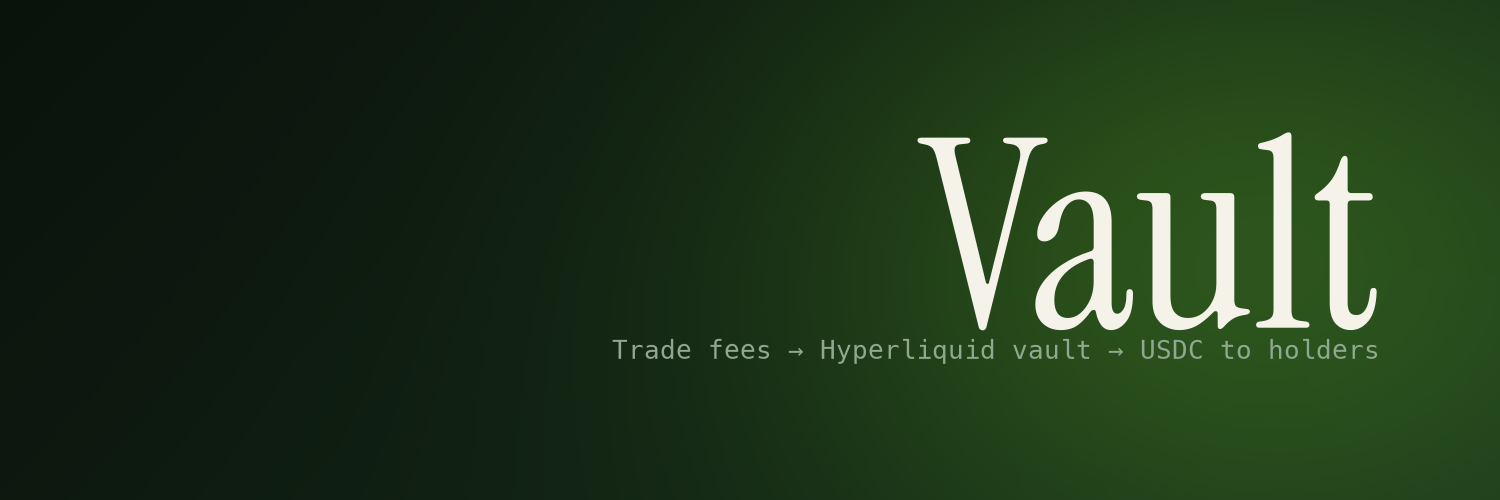
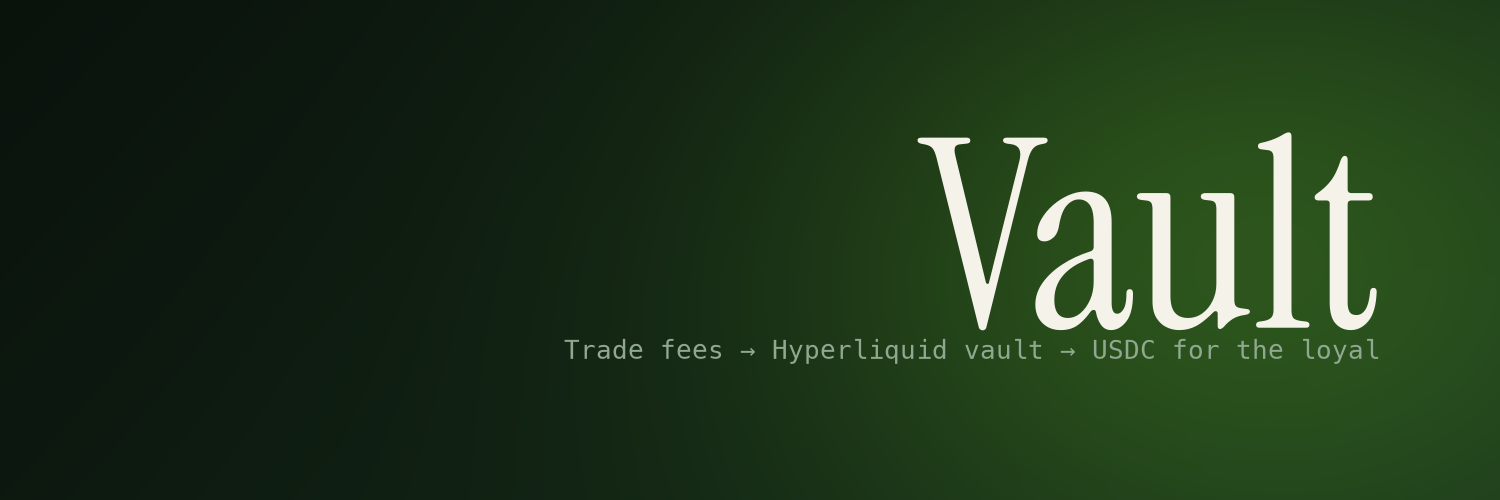
Tagline: USDC for the loyal

Changed region(s): [[0.368, 0.66, 0.92, 0.72]]

diff --git a/index.html b/index.html
@@ -399,7 +399,7 @@
 <section class="cta">
   <div class="container cta__inner">
     <h2>Fee for vault. <em>Vault for you.</em></h2>
-    <p>Trade fees → Hyperliquid vault → USDC for loyal holders.</p>
+    <p>Trade fees → Hyperliquid vault → USDC for the loyal.</p>
     <div class="hero__cta">
       <button class="btn btn--primary btn--lg">Buy $VAULT</button>
     </div>

diff --git a/brand/banner_variants.py b/brand/banner_variants.py
@@ -29,7 +29,7 @@ def save(f, name): f.savefig(os.path.join(ROOT, name), dpi=100); plt.close(f); p
 # ---- 1. classic: serif wordmark, tagline under, right-aligned ----
 f, ax = canvas((0x0A, 0x12, 0x0C), (0x16, 0x2E, 0x1B))
 ax.text(1380, 262, "Vault", fontproperties=serif, fontsize=190, color=CREAM, ha="right", va="center", zorder=3)
-ax.text(1380, 148, "Trade fees → Hyperliquid vault → USDC for loyal holders", fontsize=19, color=MUTED, family=MONO, ha="right", va="center", zorder=3)
+ax.text(1380, 148, "Trade fees → Hyperliquid vault → USDC for the loyal", fontsize=19, color=MUTED, family=MONO, ha="right", va="center", zorder=3)
 save(f, "banner-classic.png")
 
 # ---- 2. professional: restrained, structured, with a rule and meta line ----
@@ -38,7 +38,7 @@ f, ax = canvas((0x09, 0x10, 0x0B), (0x12, 0x24, 0x17), glow_x=0.88, glow_w=0.06,
 for yy in (110, 250, 390): ax.plot([80, 1420], [yy, yy], color=CREAM, alpha=0.05, lw=1, zorder=1)
 ax.text(1380, 300, "Vault", fontproperties=serif, fontsize=132, color=CREAM, ha="right", va="baseline", zorder=3)
 ax.plot([1010, 1380], [268, 268], color=LIME, lw=2, zorder=3)
-ax.text(1380, 222, "Trade fees → Hyperliquid vault → USDC for loyal holders", fontsize=18, color=CREAM, family=SANS, ha="right", va="center", zorder=3, alpha=0.9)
+ax.text(1380, 222, "Trade fees → Hyperliquid vault → USDC for the loyal", fontsize=18, color=CREAM, family=SANS, ha="right", va="center", zorder=3, alpha=0.9)
 ax.text(1380, 182, "ROBINHOOD CHAIN  ·  HYPEREVM TREASURY  ·  PAID MONTHLY  ·  VERIFIED HOLDERS ONLY", fontsize=12.5, color=MUTED, family=MONO, ha="right", va="center", zorder=3)
 ax.text(80, 60, "$VAULT", fontsize=13, color=LIME, family=MONO, ha="left", va="center", zorder=3)
 save(f, "banner-professional.png")

diff --git a/brand/make_brand.py b/brand/make_brand.py
@@ -54,5 +54,5 @@ mx, my, ms = 205, 250, 150
 ax.add_patch(FancyBboxPatch((mx - ms / 2, my - ms / 2), ms, ms, boxstyle="round,pad=0,rounding_size=34", fc=LIME, ec="none", zorder=5))
 keyhole(ax, mx, my, ms * 0.62, z=6)
 ax.text(mx + ms / 2 + 42, my - 6, "Vault", fontproperties=serif, fontsize=150, color=CREAM, va="center", ha="left", zorder=6)
-ax.text(mx - ms / 2, my - ms / 2 - 40, "Trade fees → Hyperliquid vault → USDC for loyal holders", fontsize=17, color="#8FA88F", family=["Menlo", "DejaVu Sans Mono"], va="top", zorder=6)
+ax.text(mx - ms / 2, my - ms / 2 - 40, "Trade fees → Hyperliquid vault → USDC for the loyal", fontsize=17, color="#8FA88F", family=["Menlo", "DejaVu Sans Mono"], va="top", zorder=6)
 f.savefig(os.path.join(ROOT, "banner-1500x500.png"), dpi=100); plt.close(f); print("banner-1500x500.png")

diff --git a/twitter-posts.md b/twitter-posts.md
@@ -154,7 +154,7 @@ Principal never leaves the vault. Only the yield is paid.
 Launched Sep 15. First snapshot Sep 22.
 Hold through the week, check your status on the site, get paid Monday.
 
-Trade fees → Hyperliquid vault → USDC for loyal holders.
+Trade fees → Hyperliquid vault → USDC for the loyal.
 [site link]
 
 ---
@@ -277,7 +277,7 @@ $VAULT is live.
 Day 0. Counter starts now.
 
 **B · one-liner**
-Trade fees → Hyperliquid vault → USDC for loyal holders.
+Trade fees → Hyperliquid vault → USDC for the loyal.
 That’s the whole pitch.
 
 **C · live numbers (post daily, fill from the site)**
@@ -322,7 +322,7 @@ Nothing to do. Just don’t sell.
 ## Bio / listing descriptions
 
 **Bio**
-Trade fees → Hyperliquid vault → USDC for loyal holders. Paid every Monday. Hold longer, earn more.
+Trade fees → Hyperliquid vault → USDC for the loyal. Paid every Monday. Hold longer, earn more.
 
 **Listing**
 $VAULT on Robinhood Chain. 100% of the 1.5% trade fee is deposited into the top-APR Hyperliquid vault, auto-rotated weekly. Yield is paid in USDC every 7 days to wallets holding the token, weighted by days held (×2 at day 7, capped there). Team: 0% supply, 1% of yield.
